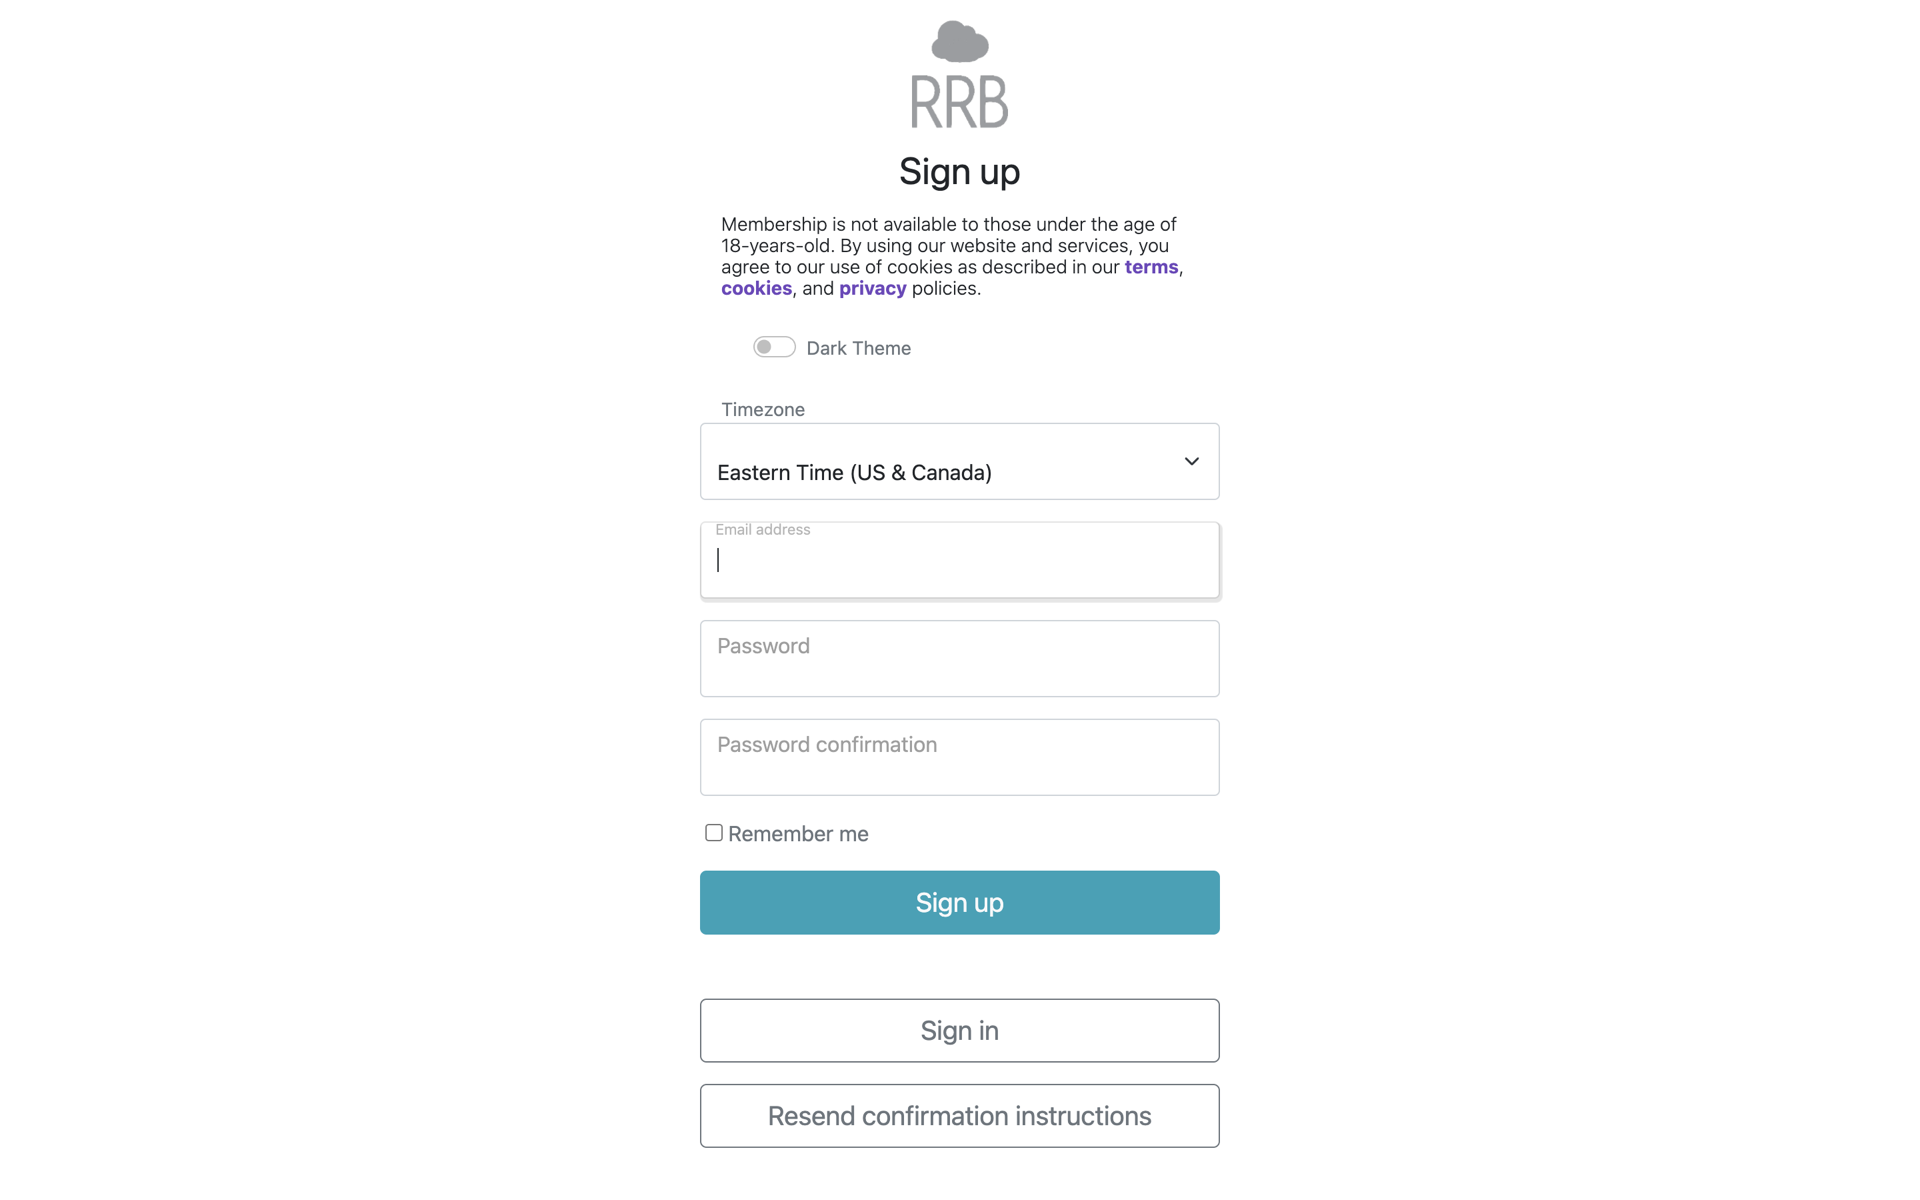
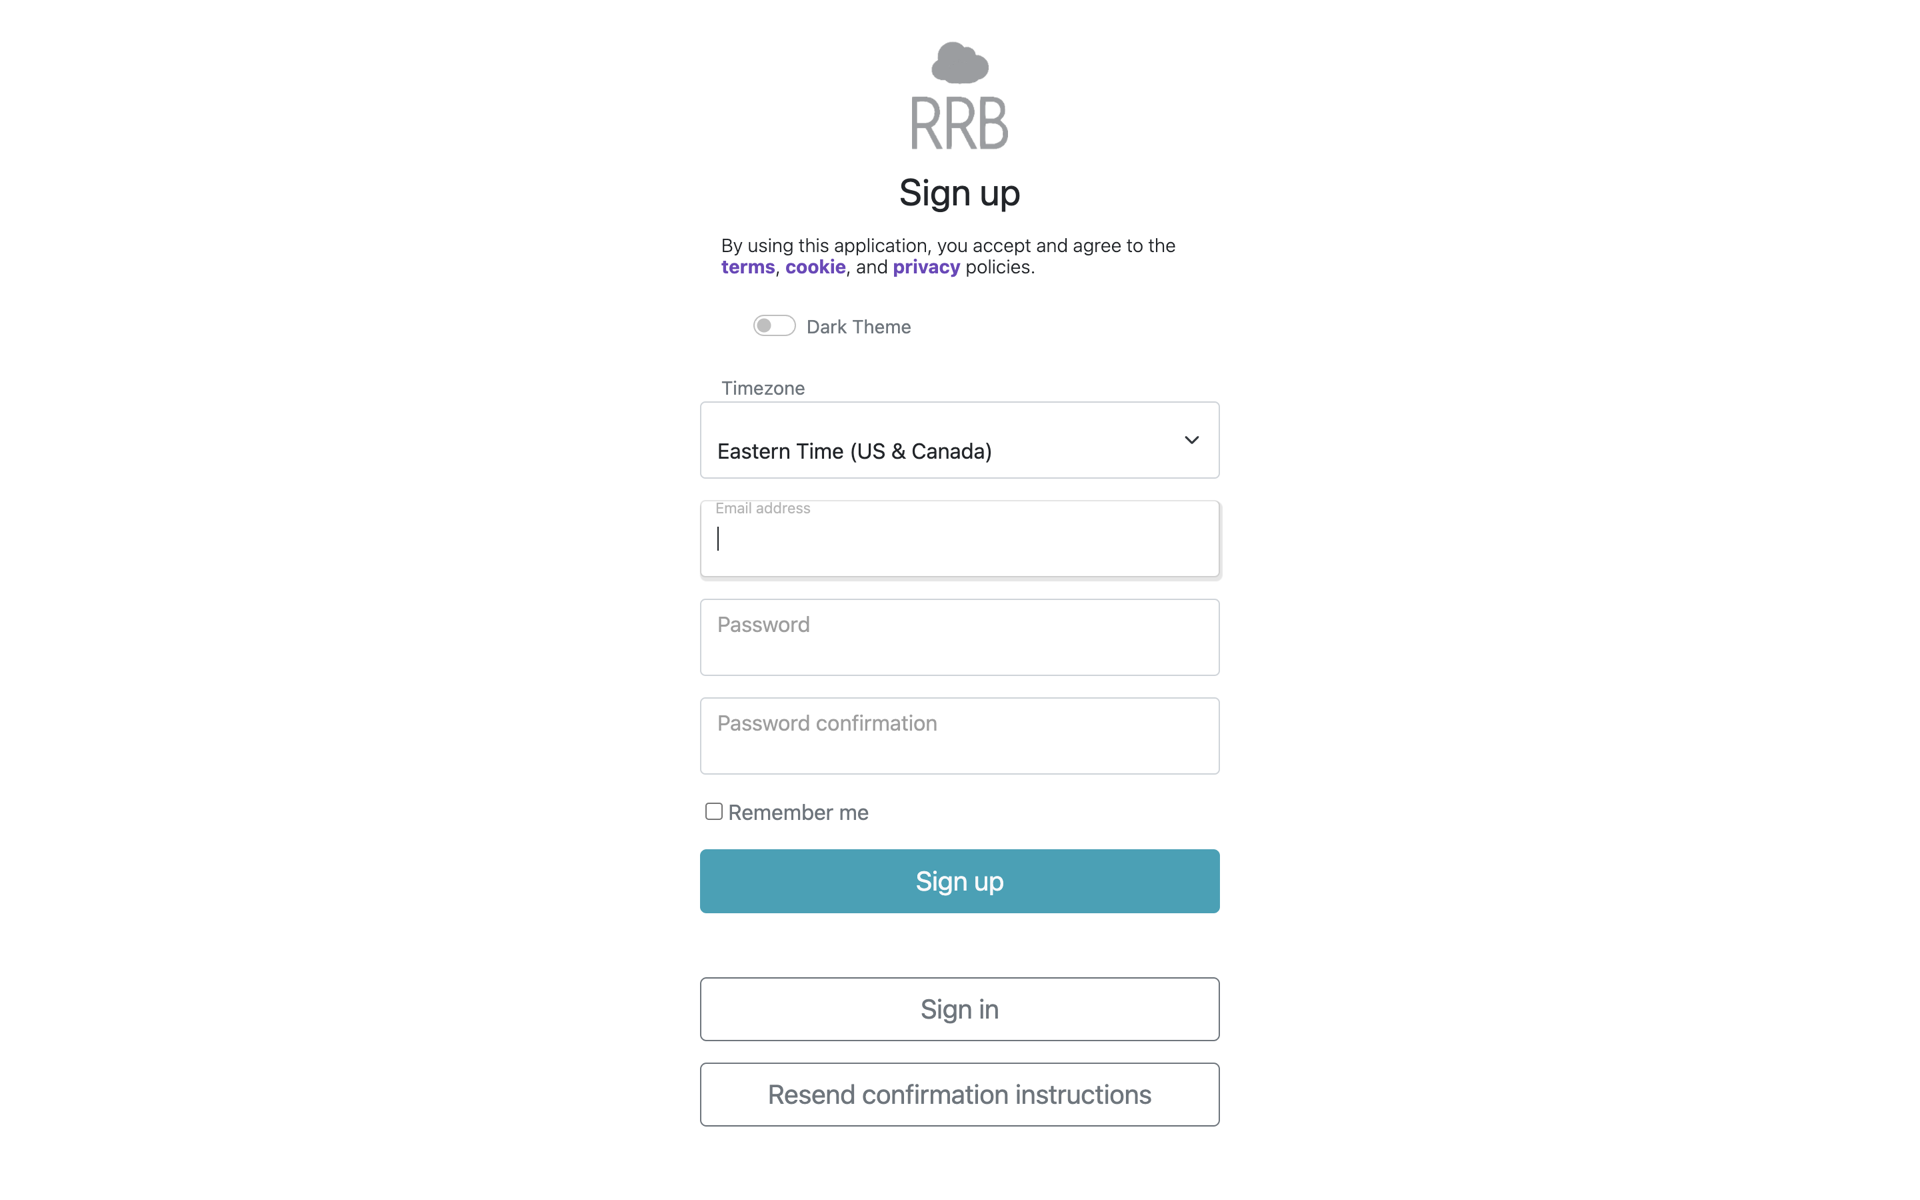
Layout Updates (Legal)

Changed region(s): [[0.375, 0.0, 0.625, 0.555], [0.3438, 0.5858, 0.6562, 0.8017], [0.375, 0.8325, 0.625, 0.9558]]

diff --git a/app/assets/stylesheets/welcome.scss b/app/assets/stylesheets/welcome.scss
@@ -28,7 +28,7 @@
     border-color: #fff !important;
     i {
       padding: 6px;
-      font-size: 15px;
+      font-size: 16px;
       color: #6c757d;
     }
   }

diff --git a/README.md b/README.md
@@ -62,7 +62,7 @@ $ open coverage/index.html
 
 ## Initialization (Development)
 
-* Search and replace in project:  rails_react_bootstrap , rails-react-bootstrap , RAILSREACTBOOTSTRAP
+* Search and replace in project:  rails_react_bootstrap , rails-react-bootstrap , RAILSREACTBOOTSTRAP , RRB
 * Replace google analytics ID
 * config/example_application.yml -> config/application.yml (figaro and .gitignore already set)
 * If you don't want to verify email, comment out :confirmable in user model and edit db/seeds
@@ -82,7 +82,7 @@ $ rails db:seed
 
 ## Initialization (Heroku)
 
-* Search and replace in project: rails_react_bootstrap , rails-react-bootstrap , RAILSREACTBOOTSTRAP
+* Search and replace in project: rails_react_bootstrap , rails-react-bootstrap , RAILSREACTBOOTSTRAP , RRB
 * Replace google analytics ID
 * The Heroku CLI: https://devcenter.heroku.com/articles/heroku-cli
 * Buildpacks: heroku/nodejs | heroku/ruby
